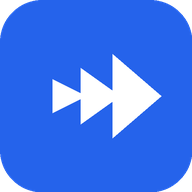
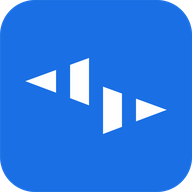
fix: Jony Academy belgisini asl logotipdan aniq tiklash
Jahongir to'g'ri ta'kidladi: oldingi brendlash commiti (e2cc11e)
logotipni BUZGAN edi. Sabab — o'sha safar rasm fayl sifatida emas,
suhbatga to'g'ridan-to'g'ri joylashtirilgan tasvir sifatida kelgan
edi, fayl sifatida hech qayerda topilmadi, shuning uchun belgi
qo'lda (ko'zga qarab) SVG sifatida qayta chizilgan edi — natijada
3 ta oddiy o'ngga qaragan uchburchak chiqdi, rangi ham taxminiy
(#2563eb) edi.

Jahongir asl faylni Ish stoliga tashladi ("oq fon.jpg"). Bu safar
qo'lda chizishga urinilmadi — buning o'rniga fayldan ANIQ piksel
ma'lumoti olindi:
- Belgi RGB(26,111,228) = #1A6FE4 rangda ekani piksel bo'yicha
  o'lchandi (oldingi taxmin #2563eb noto'g'ri chiqqan).
- Haqiqiy shakl — chap uchburchak + tik panel + oraliq + o'ng
  uchburchak + tik panel + kattaroq o'ng uchburchak (oldingi "3 ta
  oddiy o'ngga qaragan uchburchak" bilan solishtirganda butunlay
  boshqacha) — flood-fill orqali fondan tozalab, aniq piksel
  bilan kesib olindi (geometriyani qo'lda taxmin qilishga
  urinilmadi, chunki aynan shu urinish oldingi xatoga sabab bo'lgan).

O'zgarishlar:
- src/assets/brand-icon.png (YANGI) — asl fayldan aniq kesilgan,
  foni tozalangan belgi (shaffof burchaklar bilan).
- src/components/BrandIcon.tsx — endi qo'lda chizilgan SVG polygon
  o'rniga shu aniq rasmni <img> sifatida ko'rsatadi. Barcha chaqiruv
  joylari (Layout.tsx, Login.tsx) o'zgarishsiz qoladi.
- public/favicon.png (YANGI, favicon.svg o'rniga), apple-touch-icon,
[…]

diff --git a/src/components/BrandIcon.tsx b/src/components/BrandIcon.tsx
@@ -1,15 +1,21 @@
+import brandIconSrc from "../assets/brand-icon.png";
+
 /**
- * Jony Academy logotipi belgisi (2026-08-09).
+ * Jony Academy logotipi belgisi (tuzatildi 2026-08-09).
  *
- * Jahongir yubordi rasm — ko'k dumaloq kvadrat + 3 ta oq o'ngga
- * qaragan uchburchak (o'sib boruvchi o'lcham). Rasm fayl sifatida
- * emas, suhbatga to'g'ridan-to'g'ri joylashtirilgan rasm sifatida
- * kelgani uchun asl pikselларни chiqarib olib bo'lmadi — shuning
- * uchun bu SVG qo'lda, ko'rgan rasmga qarab qayta chizilgan aniq
- * nusxa (yaqin, lekin 100% bir xil emas). Agar Jahongir asl faylni
- * (SVG yoki katta PNG) yuborsa, buni bir zumda asl fayl bilan
- * almashtirish mumkin — barcha chaqiruv joylari shu komponent
- * orqali ishlaydi.
+ * ILGARIGI XATOLIK: birinchi versiya rasm faylsiz, faqat suhbatga
+ * joylashtirilgan tasvirni ko'rib, qo'lda SVG sifatida chizilgan edi
+ * (3 ta oddiy o'ngga qaragan uchburchak, ranggi ham taxminiy). Jahongir
+ * buni asl logotipdan farq qilishini aniq ko'rsatdi ("logosini
+ * buzibsan"). Asl fayl (Ish stolidan "oq fon.jpg") olingandan keyin
+ * ma'lum bo'ldiki, haqiqiy belgi ancha murakkab: chap tomonga
+ * qaragan uchburchak + tik panel + oraliq + o'ngga qaragan uchburchak
+ * + tik panel + kattaroq o'ngga qaragan uchburchak.
+ *
+ * Bu safar qo'lda qayta chizishga urinilmadi — buning o'rniga asl
+ * fayldan ANIQ piksel bilan kesib olingan tasvir ishlatiladi
+ * (src/assets/brand-icon.png, fon olib tashlangan, shaffof burchaklar
+ * bilan). Rang ham fayldan aniq o'lchandi: #1A6FE4.
  */
 export function BrandIcon({
   size = 32,
@@ -19,18 +25,14 @@ export function BrandIcon({
   className?: string;
 }) {
   return (
-    <svg
+    <img
+      src={brandIconSrc}
       width={size}
       height={size}
-      viewBox="0 0 32 32"
+      alt=""
       className={className}
-      aria-hidden="true"
-    >
-      <rect width="32" height="32" rx="7.04" fill="#2563eb" />
-      <polygon points="8.75,13.188 14.375,16 8.75,18.812" fill="#ffffff" />
-      <polygon points="13.438,11.312 20,16 13.438,20.688" fill="#ffffff" />
-      <polygon points="18.75,9 26.875,16 18.75,23" fill="#ffffff" />
-    </svg>
+      style={{ width: size, height: size, objectFit: "contain" }}
+    />
   );
 }
 
@@ -45,12 +47,7 @@ export function BrandLockup({
 }) {
   return (
     <div className={`flex items-center gap-3 ${className}`}>
-      <div
-        className="rounded-xl overflow-hidden shrink-0"
-        style={{ width: iconSize, height: iconSize }}
-      >
-        <BrandIcon size={iconSize} />
-      </div>
+      <BrandIcon size={iconSize} />
       <span className="font-extrabold tracking-tight text-slate-900 leading-none text-xl">
         JONY<br />ACADEMY
       </span>

diff --git a/src/index.css b/src/index.css
@@ -1,13 +1,18 @@
 @import "tailwindcss";
 
 @theme {
-  /* Jony Academy brend ko'k rangi (2026-08-09, logo bilan moslashtirildi) */
-  --color-brand-50: #eff6ff;
-  --color-brand-100: #dbeafe;
-  --color-brand-400: #60a5fa;
-  --color-brand-500: #3b82f6;
-  --color-brand-600: #2563eb;
-  --color-brand-700: #1d4ed8;
+  /* Jony Academy brend ko'k rangi — asl logotip faylidan aniq
+     o'lchangan (2026-08-09): #1A6FE4 (RGB 26,111,228). Ilgarigi
+     taxminiy qiymat (#2563eb asosidagi shkala) noto'g'ri edi — logotip
+     fayli hali qo'lda bo'lmagani uchun ko'zga qarab tanlangan edi.
+     Endi 600 - ANIQ o'lchangan rang, qolganlari shu tondan (H215
+     S79.5%) yorug'lik darajasini o'zgartirib hosil qilindi. */
+  --color-brand-50: #eff5fd;
+  --color-brand-100: #d6e5fa;
+  --color-brand-400: #5a98ec;
+  --color-brand-500: #3882e8;
+  --color-brand-600: #1a6fe4;
+  --color-brand-700: #165cbe;
   --font-sans: "Segoe UI", system-ui, sans-serif;
 }
 

diff --git a/index.html b/index.html
@@ -2,10 +2,10 @@
 <html lang="uz">
   <head>
     <meta charset="UTF-8" />
-    <link rel="icon" type="image/svg+xml" href="/favicon.svg" />
+    <link rel="icon" type="image/png" href="/favicon.png" />
     <link rel="apple-touch-icon" href="/apple-touch-icon.png" />
     <meta name="viewport" content="width=device-width, initial-scale=1.0" />
-    <meta name="theme-color" content="#2563eb" />
+    <meta name="theme-color" content="#1A6FE4" />
     <meta name="mobile-web-app-capable" content="yes" />
     <meta name="apple-mobile-web-app-capable" content="yes" />
     <meta name="apple-mobile-web-app-status-bar-style" content="black-translucent" />

diff --git a/api/parents.py b/api/parents.py
@@ -294,7 +294,7 @@ def parent_manifest(token: str, db: Session = Depends(get_db)):
         "scope": f"/parent/{token}",
         "display": "standalone",
         "background_color": "#ffffff",
-        "theme_color": "#0d9488",
+        "theme_color": "#1A6FE4",
         "orientation": "portrait",
         "lang": "uz",
         "icons": [
